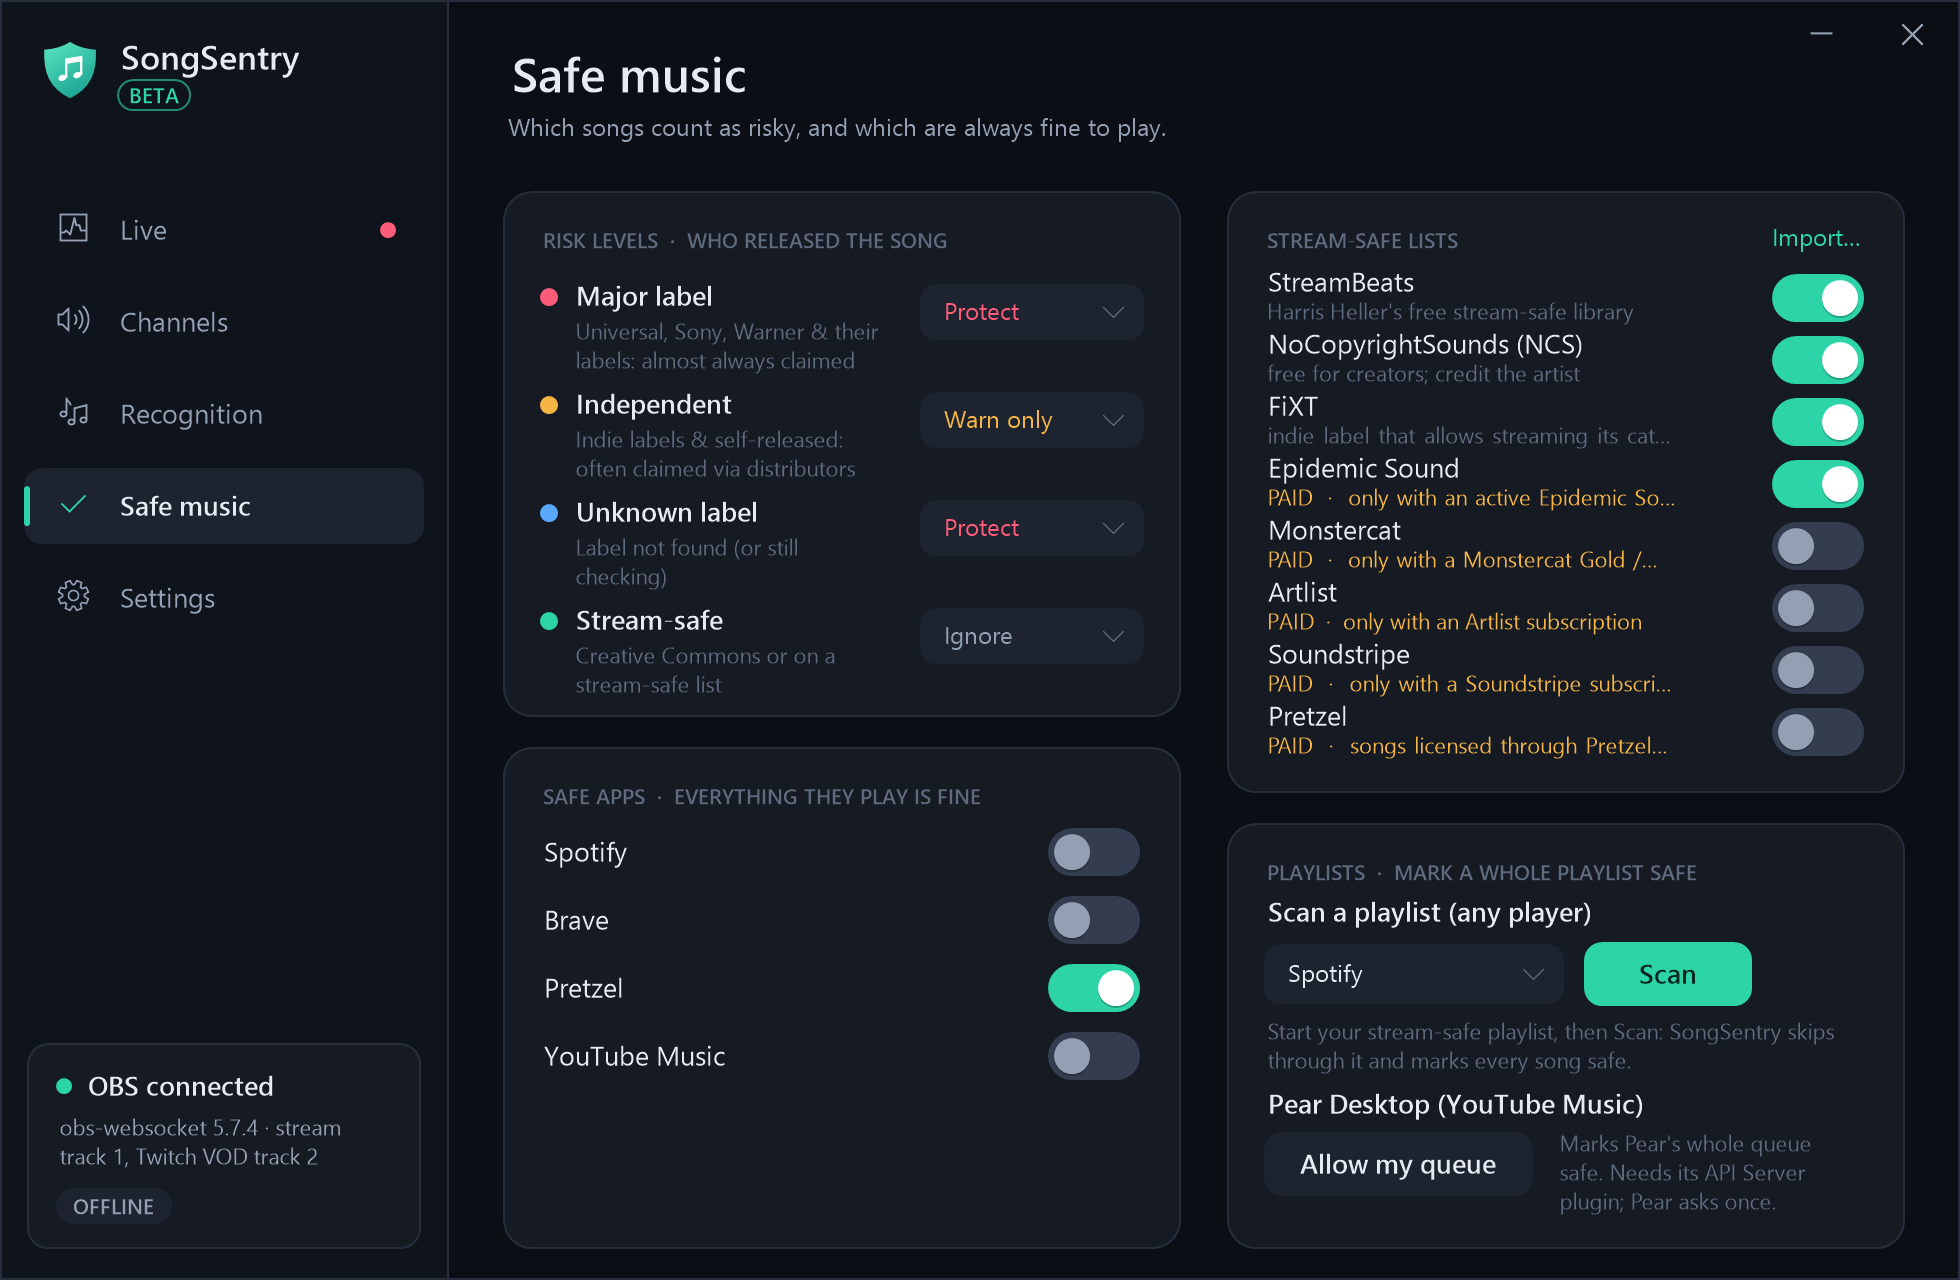
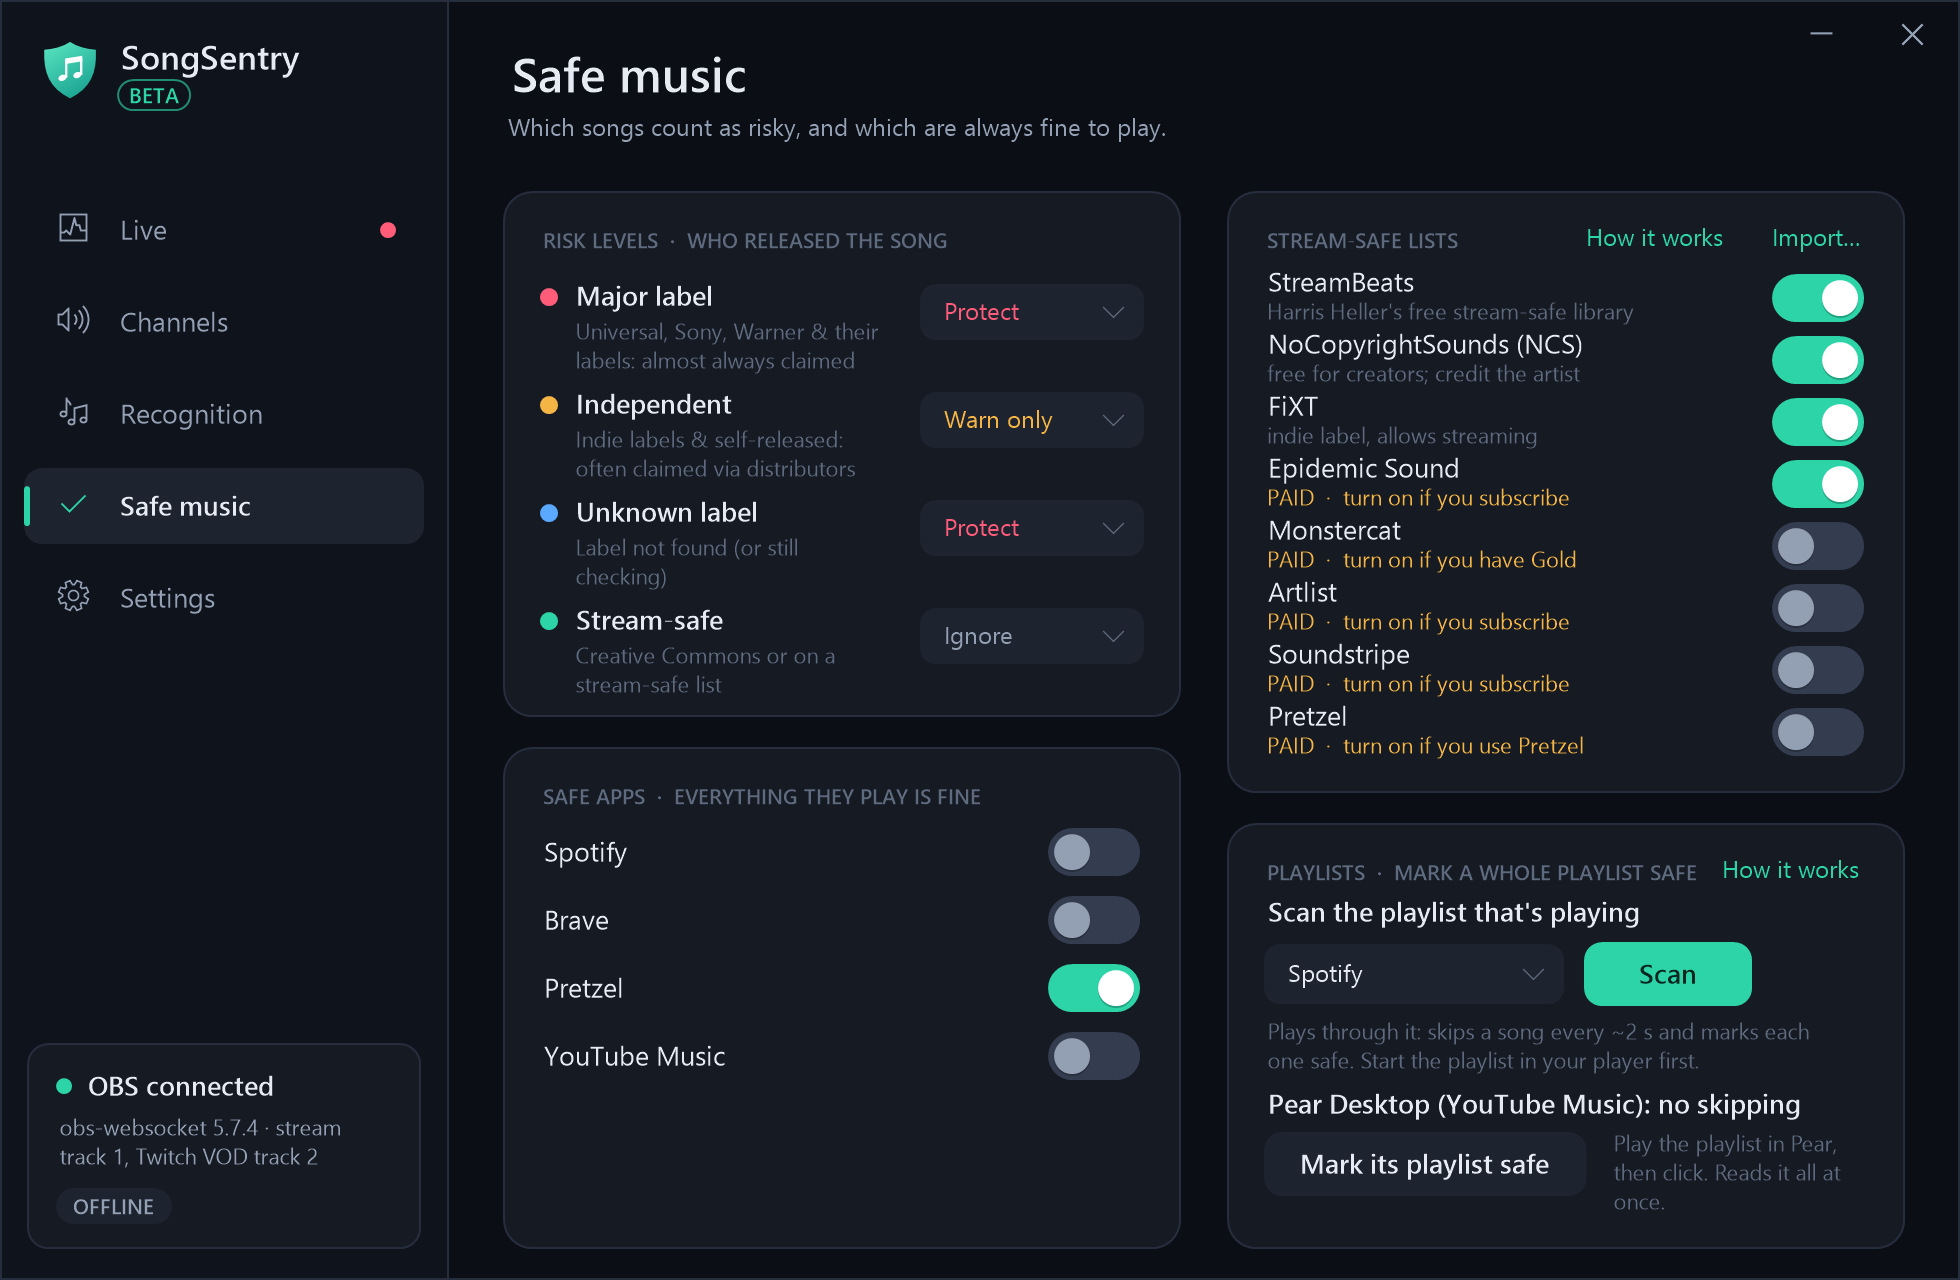
Safe music page: clearer wording, How it works help, fix Import… button

diff --git a/src/MainForm.cs b/src/MainForm.cs
@@ -957,7 +957,8 @@ namespace SongSentry
             // stream-safe lists
             var sl = new RectangleF(rx, y, colW, 300);
             Section(g, sl, "STREAM-SAFE LISTS");
-            LinkText(g, "list:import", "Import…", sl.Right - 18, sl.Y + 13, true);
+            float iw = LinkText(g, "list:import", "Import…", sl.Right - 18, sl.Y + 13, true);
+            LinkText(g, "help:lists", "How it works", sl.Right - 18 - iw - 18, sl.Y + 13, true);
             float sy = sl.Y + 36;
             var all = settings.Lists.All.ToList();
             int shown = 0;
@@ -983,7 +984,8 @@ namespace SongSentry
             // playlists
             var pl = new RectangleF(rx, sl.Bottom + 16, colW, H - sl.Bottom - 32);
             Section(g, pl, "PLAYLISTS  ·  MARK A WHOLE PLAYLIST SAFE");
-            Theme.Text2(g, "Scan a playlist (any player)", fBodyB, Theme.Text, new RectangleF(pl.X + 18, pl.Y + 34, colW - 36, 20), StringAlignment.Near, StringAlignment.Center);
+            LinkText(g, "help:playlists", "How it works", pl.Right - 18, pl.Y + 13, true);
+            Theme.Text2(g, "Scan the playlist that's playing", fBodyB, Theme.Text, new RectangleF(pl.X + 18, pl.Y + 34, colW - 36, 20), StringAlignment.Near, StringAlignment.Center);
             if (scanApp == null) scanApp = engine.Media.Where(x => x.State == PlayState.Playing).Select(x => x.App).FirstOrDefault() ?? engine.Media.Select(x => x.App).FirstOrDefault();
             var ap = new RectangleF(pl.X + 18, pl.Y + 60, 150, 30);
             Theme.Fill(g, ap, 8, hover == "scan:app" ? Theme.Hover : Theme.Raised);
@@ -991,11 +993,11 @@ namespace SongSentry
             Theme.Text2(g, Theme.GChevron, fIconS, Theme.Dim, new RectangleF(ap.Right - 22, ap.Y + 1, 14, ap.Height), StringAlignment.Center, StringAlignment.Center);
             Hit("scan:app", ap);
             Button(g, "scan:go", scanner.Running ? "Stop" : "Scan", ap.Right + 10, ap.Y - 1, 84, !scanner.Running);
-            Theme.Wrap(g, string.IsNullOrEmpty(scanner.Status) ? "Start your stream-safe playlist, then Scan: SongSentry skips through it and marks every song safe."
+            Theme.Wrap(g, string.IsNullOrEmpty(scanner.Status) ? "Plays through it: skips a song every ~2 s and marks each one safe. Start the playlist in your player first."
                        : scanner.Status, fTiny, scanner.Running ? Theme.Accent : Theme.Dim, new RectangleF(pl.X + 18, pl.Y + 96, colW - 36, 30));
-            Theme.Text2(g, "Pear Desktop (YouTube Music)", fBodyB, Theme.Text, new RectangleF(pl.X + 18, pl.Y + 130, colW - 36, 20), StringAlignment.Near, StringAlignment.Center);
-            float pbx = Button(g, "pear:go", pearBusy ? "Waiting…" : "Allow my queue", pl.X + 18, pl.Y + 154, 0, false);
-            Theme.Wrap(g, pearStatus ?? "Marks Pear's whole queue safe. Needs its API Server plugin; Pear asks once.",
+            Theme.Text2(g, "Pear Desktop (YouTube Music): no skipping", fBodyB, Theme.Text, new RectangleF(pl.X + 18, pl.Y + 130, colW - 36, 20), StringAlignment.Near, StringAlignment.Center);
+            float pbx = Button(g, "pear:go", pearBusy ? "Waiting…" : "Mark its playlist safe", pl.X + 18, pl.Y + 154, 0, false);
+            Theme.Wrap(g, pearStatus ?? "Play the playlist in Pear, then click. Reads it all at once.",
                        fTiny, pearStatus != null ? Theme.Sub : Theme.Dim, new RectangleF(pbx + 12, pl.Y + 152, pl.Right - pbx - 30, 44));
         }
 
@@ -1045,6 +1047,11 @@ namespace SongSentry
                 });
             });
             m.Show(this, at);
+        }
+
+        void ShowHelp(string title, string text)
+        {
+            MessageBox.Show(this, text, title, MessageBoxButtons.OK, MessageBoxIcon.Information);
         }
 
         void ShowScanAppMenu(Point at)
@@ -1324,9 +1331,25 @@ namespace SongSentry
             else if (id == "restore:end") { settings.Restore = RestoreMode.TrackEnd; settings.Save(); engine.Reevaluate(); }
             else if (id == "opt:listen") { settings.ListenToAudio = !settings.ListenToAudio; settings.Save(); UpdateAnim(); ShowToast(settings.ListenToAudio ? "Listening to your sources' audio" : "Audio recognition off (Now Playing only)"); }
             else if (id.StartsWith("risk:")) ShowRiskMenu((RiskLevel)Enum.Parse(typeof(RiskLevel), arg), e.Location);
+            else if (id == "list:import") ShowImportMenu(e.Location);
+            else if (id == "help:lists") ShowHelp("Stream-safe lists",
+                "Songs from the labels and artists on a switched-on list count as stream-safe, so SongSentry leaves them alone.\n\n" +
+                "FREE lists (StreamBeats, NCS, FiXT) are on by default: anyone may stream them.\n\n" +
+                "PAID lists have no login. Epidemic Sound, Monstercat, Artlist and others don't let apps check your subscription, " +
+                "so the switch simply means \"I have a license for this library\". Turn one on only if you really do: " +
+                "their music is only safe for subscribers, and you may also need to add your channel in their own website.\n\n" +
+                "Import… adds your own list from a file or link (\"Artist - Title\" per line, \"label: Name\", \"artist: Name\", or a CSV such as an Exportify playlist export).");
+            else if (id == "help:playlists") ShowHelp("Mark a whole playlist safe",
+                "Scan the playlist that's playing (Spotify, browsers, any player)\n" +
+                "Windows only tells SongSentry which song is playing, not which playlist, so you can't pick one from a list. " +
+                "Start your stream-safe playlist in the player and click Scan: SongSentry presses \"next\" every couple of seconds, " +
+                "marks each song safe, and stops when the playlist starts over (about 2 s per song).\n\n" +
+                "Pear Desktop (YouTube Music)\n" +
+                "Play the playlist in Pear and click \"Mark its playlist safe\": SongSentry reads Pear's whole queue at once, no skipping. " +
+                "Turn on Pear's API Server plugin first (Plugins menu); the first time, Pear asks you to Allow SongSentry.\n\n" +
+                "Only mark playlists whose songs you know are safe to play on stream.");
             else if (id.StartsWith("list:")) { if (settings.Lists.Enabled.Contains(arg)) settings.Lists.Enabled.Remove(arg); else settings.Lists.Enabled.Add(arg); settings.Save(); engine.Reevaluate(); }
             else if (id.StartsWith("listdel:")) { settings.Lists.Remove(arg); settings.Save(); engine.Reevaluate(); ShowToast("List removed"); }
-            else if (id == "list:import") ShowImportMenu(e.Location);
             else if (id.StartsWith("safeapp:")) { bool on = settings.IsSafeApp(arg); if (on) engine.RemoveAllow(settings.AllowList().First(x => x.Equals("app:" + arg, StringComparison.OrdinalIgnoreCase))); else engine.AddAllow("app:" + arg); ShowToast(on ? AppKey.Pretty(arg) + " is checked normally again" : "All music from " + AppKey.Pretty(arg) + " counts as safe"); }
             else if (id == "scan:app") ShowScanAppMenu(e.Location);
             else if (id == "scan:go") StartOrStopScan();

diff --git a/src/SafeLists.cs b/src/SafeLists.cs
@@ -27,17 +27,17 @@ namespace SongSentry
               new[] { "StreamBeats", "Streambeats by Harris Heller" }, new[] { "StreamBeats", "Harris Heller", "StreamBeats by Harris Heller" }),
             L("ncs", "NoCopyrightSounds (NCS)", false, "free for creators; credit the artist",
               new[] { "NCS", "NoCopyrightSounds" }, new string[0]),
-            L("fixt", "FiXT", false, "indie label that allows streaming its catalogue",
+            L("fixt", "FiXT", false, "indie label, allows streaming",
               new[] { "FiXT", "FiXT Neon", "FiXT Noir" }, new string[0]),
-            L("epidemic", "Epidemic Sound", true, "only with an active Epidemic Sound subscription",
+            L("epidemic", "Epidemic Sound", true, "turn on if you subscribe",
               new[] { "Epidemic Sound" }, new string[0]),
-            L("monstercat", "Monstercat", true, "only with a Monstercat Gold / Creator license",
+            L("monstercat", "Monstercat", true, "turn on if you have Gold",
               new[] { "Monstercat", "Monstercat Instinct", "Monstercat Uncaged", "Monstercat Silk" }, new string[0]),
-            L("artlist", "Artlist", true, "only with an Artlist subscription",
+            L("artlist", "Artlist", true, "turn on if you subscribe",
               new[] { "Artlist", "Artlist Original" }, new string[0]),
-            L("soundstripe", "Soundstripe", true, "only with a Soundstripe subscription",
+            L("soundstripe", "Soundstripe", true, "turn on if you subscribe",
               new[] { "Soundstripe" }, new string[0]),
-            L("pretzel", "Pretzel", true, "songs licensed through Pretzel (tip: also mark the Pretzel app as a safe app)",
+            L("pretzel", "Pretzel", true, "turn on if you use Pretzel",
               new[] { "Pretzel", "Pretzel Rocks" }, new string[0]),
         };
 
